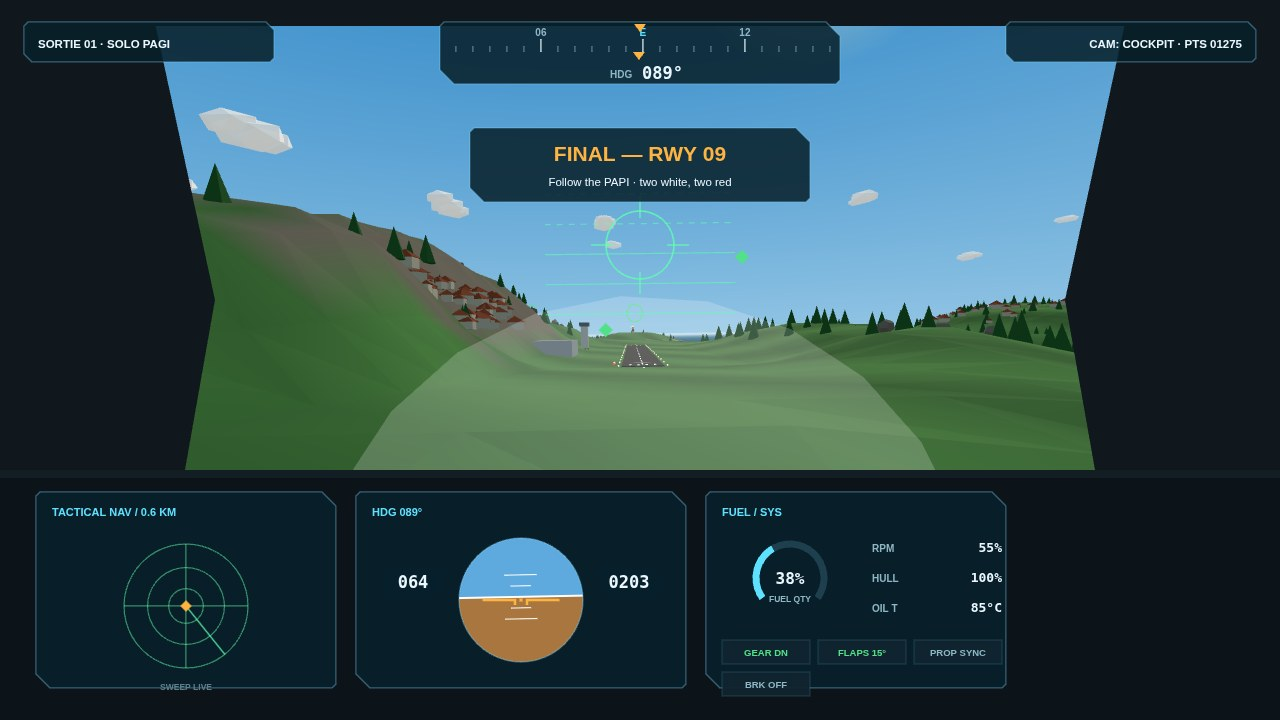
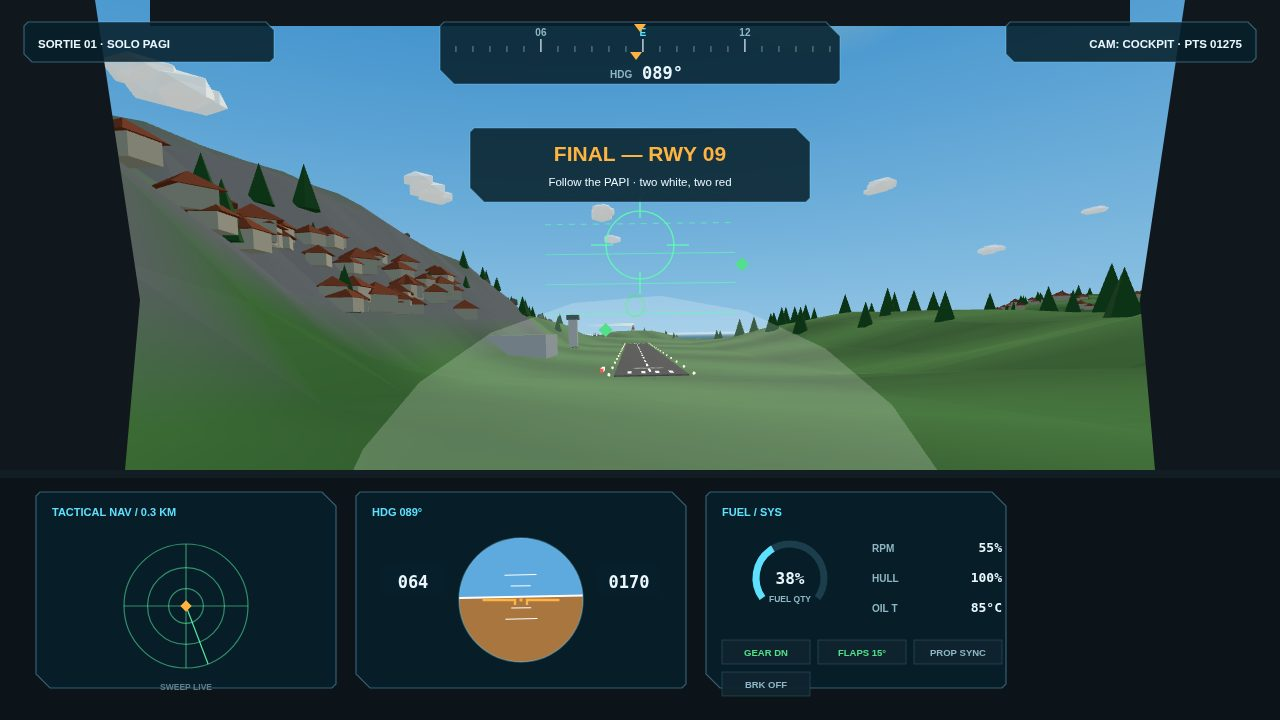
v7: hero title staging (big RAJAWALI on RWY 09), senja volcano-crossing rings shot, slimmer cockpit pillars, neutral grey rocks

diff --git a/game/src/main.js b/game/src/main.js
@@ -306,10 +306,11 @@ function updateCamera(dt) {
   if (mode === 'menu' || mode === 'results' || mode === 'crashed') {
     const cx = mode === 'menu' ? -330 : P ? P.x : -330;
     const cz = RUNWAY.cz, cy = RUNWAY.y + 2.3;
-    const ang = SHOT === 'complete' ? 0.9 : SHOT === 'title' ? -0.15 : SHOT ? -0.5 : performance.now() * 0.00004;
-    const r = mode === 'menu' ? (SHOT === 'title' ? 56 : 64) : (SHOT === 'complete' ? 108 : 120);
-    camera.position.set(cx + Math.cos(ang) * r, cy + (mode === 'menu' ? (SHOT === 'title' ? 12 : 13) : (SHOT === 'complete' ? 32 : 26)), cz + Math.sin(ang) * r);
-    camera.lookAt(cx + 10, cy + 5, cz);
+    const tAng = parseFloat(params.get('ta') ?? -0.5), tR = parseFloat(params.get('tr') ?? 30), tLook = parseFloat(params.get('tl') ?? 12);
+    const ang = SHOT === 'complete' ? 0.9 : SHOT === 'title' ? tAng : SHOT ? -0.5 : performance.now() * 0.00004;
+    const r = mode === 'menu' ? (SHOT === 'title' ? tR : 64) : (SHOT === 'complete' ? 108 : 120);
+    camera.position.set(cx + Math.cos(ang) * r, cy + (mode === 'menu' ? (SHOT === 'title' ? 5 : 13) : (SHOT === 'complete' ? 32 : 26)), cz + Math.sin(ang) * r);
+    camera.lookAt(cx + (SHOT === 'title' ? tLook : 10), cy + 5, cz);
     camera.fov = 55; camera.updateProjectionMatrix();
     return;
   }
@@ -321,7 +322,7 @@ function updateCamera(dt) {
     camera.rotateZ(-P.roll * 0.9);
     return;
   }
-  const dist = aircraft().id === 'elang' ? 23 : 19.5;
+  const dist = SHOT === 'rings' ? 30 : aircraft().id === 'elang' ? 23 : 19.5;
   const desired = new THREE.Vector3(P.x - f.x * dist, P.y - f.y * dist + 4.2, P.z - f.z * dist);
   const k = 1 - Math.exp(-dt * 3.4);
   camPos.lerp(desired, k);
@@ -410,22 +411,22 @@ function stageShot() {
   if (SHOT === 'title') {
     sel.aircraft = 0; sel.sortie = 0; sel.lighting = 'pagi';
     buildScene(); parkPlane();
-    P.x = -310; syncPlaneMesh();
+    P.x = -330; P.course = parseFloat(params.get('tc') ?? 0.3); syncPlaneMesh();
     mode = 'menu';
   } else if (SHOT === 'rings') {
-    sel.lighting = 'pagi'; buildScene(); resetFlight();
+    sel.sortie = 1; sel.lighting = 'senja'; buildScene(); resetFlight();
     setGateState(world, 0, 'passed'); setGateState(world, 1, 'passed');
     gateIdx = 2; gatesDone = 2; score = 675; combo = 2; maxCombo = 2;
-    Object.assign(P, { x: 1830, y: 262, z: -760, pitch: 0.03, roll: -0.3, speed: 47, throttle: 0.7, fuel: 0.66, onGround: false });
-    P.course = Math.atan2(-950 - P.z, 2150 - P.x);
-    elapsed = 74; banner = null;
-    camPos.set(P.x - 15, P.y + 5, P.z + 9);
+    Object.assign(P, { x: 2600, y: 480, z: -1900, pitch: 0.02, roll: -0.35, speed: 47, throttle: 0.72, fuel: 0.58, onGround: false });
+    P.course = Math.atan2(-1650 - P.z, 1850 - P.x);
+    elapsed = 96; banner = null;
+    camPos.set(P.x - Math.cos(P.course) * 30, P.y + 4.2, P.z - Math.sin(P.course) * 30);
   } else if (SHOT === 'cockpit') {
     sel.lighting = 'pagi'; buildScene(); resetFlight();
     for (let i = 0; i < world.gates.length; i++) setGateState(world, i, 'passed');
     gateIdx = world.gates.length; gatesDone = 6; score = 1275; combo = 6; maxCombo = 6;
     phase = 'final'; view = 'cockpit'; camera.fov = 66; camera.updateProjectionMatrix();
-    Object.assign(P, { x: -1050, y: 62, z: 938, course: 0.015, pitch: -0.05, roll: 0.02, speed: 33, throttle: 0.34, fuel: 0.38, onGround: false, gearDown: true, flaps: 15 });
+    Object.assign(P, { x: -800, y: 52, z: 938, course: 0.015, pitch: -0.05, roll: 0.02, speed: 33, throttle: 0.34, fuel: 0.38, onGround: false, gearDown: true, flaps: 15 });
     elapsed = 158;
     updatePAPI(world, '09', P.y - (RUNWAY.y + Math.max(0, (RUNWAY.cx - RUNWAY.len / 2) - P.x) * 0.0524));
     banner = { title: 'FINAL — RWY 09', sub: 'Follow the PAPI · two white, two red', until: performance.now() + 1e9 };

diff --git a/game/src/hud.js b/game/src/hud.js
@@ -322,9 +322,9 @@ export function drawCockpitHud(ctx, st, proj) {
   ctx.clearRect(0, 0, 1280, 720);
   ctx.fillStyle = '#10181d';
   ctx.beginPath();
-  ctx.moveTo(0, 0); ctx.lineTo(150, 0); ctx.lineTo(215, 300); ctx.lineTo(185, 470); ctx.lineTo(0, 500); ctx.closePath(); ctx.fill();
+  ctx.moveTo(0, 0); ctx.lineTo(95, 0); ctx.lineTo(140, 300); ctx.lineTo(125, 470); ctx.lineTo(0, 500); ctx.closePath(); ctx.fill();
   ctx.beginPath();
-  ctx.moveTo(1280, 0); ctx.lineTo(1130, 0); ctx.lineTo(1065, 300); ctx.lineTo(1095, 470); ctx.lineTo(1280, 500); ctx.closePath(); ctx.fill();
+  ctx.moveTo(1280, 0); ctx.lineTo(1185, 0); ctx.lineTo(1140, 300); ctx.lineTo(1155, 470); ctx.lineTo(1280, 500); ctx.closePath(); ctx.fill();
   ctx.fillRect(150, 0, 980, 26);
   ctx.save();
   ctx.beginPath(); ctx.roundRect(465, 120, 350, 250, 18); ctx.clip();

diff --git a/game/src/world3d.js b/game/src/world3d.js
@@ -147,7 +147,7 @@ export function buildWorld(scene, lightingName) {
   const pos = tg.attributes.position;
   const colours = [];
   const cSand = new THREE.Color(0xd9c489), cGrass = new THREE.Color(0x5da24f), cGrass2 = new THREE.Color(0x3e7d3a),
-    cRock = new THREE.Color(0x8a7f72), cAsh = new THREE.Color(0x5c564f), cSnow = new THREE.Color(0xf2f5f7),
+    cRock = new THREE.Color(0x7e8288), cAsh = new THREE.Color(0x5c564f), cSnow = new THREE.Color(0xf2f5f7),
     cSea = new THREE.Color(0x2e7ea6);
   const tmp = new THREE.Color();
   for (let i = 0; i < pos.count; i++) {
